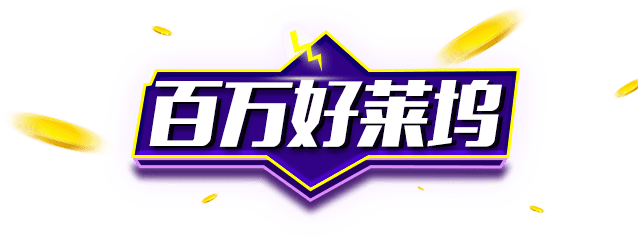
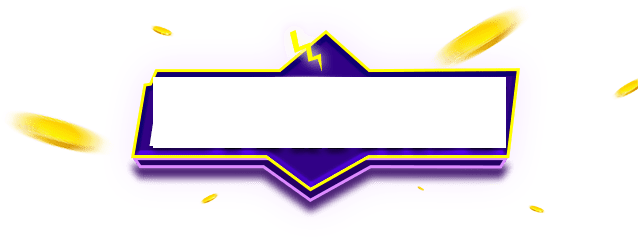
no message

Changed region(s): [[0.2382, 0.3195, 0.8041, 0.639]]

diff --git a/src/pages/Intro/index.js b/src/pages/Intro/index.js
@@ -3,9 +3,9 @@ import {observer} from 'mobx-preact';
 import style from './style.scss';
 
 import rule1 from './img/rule1.png';
-import rule2 from './img/rule2.png';
-import rule3 from './img/rule3.png';
-import rule4 from './img/rule4.png';
+// import rule2 from './img/rule2.png';
+// import rule3 from './img/rule3.png';
+// import rule4 from './img/rule4.png';
 import faq from './img/faq.png';
 
 @observer
@@ -20,32 +20,11 @@ export default class Intro extends Component {
 					<div class={`over-hidden ${style.rule_item}`}>
 						<img class={`fl-lf ${style.rule_img}`} src={rule1}/>
 						<div class={`fl-ri ${style.rule_box}`}>
-							<div class={`text16 break-word fs16 ${style.rule_title}`}>回答问题，要准要快</div>
-							<div class={`fc4 break-word ${style.item_text}`} dangerouslySetInnerHTML={{__html: '点选你认为正确的答案，你必须在10s内审题和作答，选完不可修改。'}}></div>
+							<div class={`text16 break-word fs16 ${style.rule_title}`}>some text</div>
+							<div class={`fc4 break-word ${style.item_text}`} dangerouslySetInnerHTML={{__html: 'some text'}}></div>
 						</div>
 					</div>
 
-					<div class={`over-hidden ${style.rule_item}`}>
-						<img class={`fl-lf ${style.rule_img}`} src={rule2}/>
-						<div class={`fl-ri ${style.rule_box}`}>
-							<div class={`text16 break-word fs16 ${style.rule_title}`}>超时或答错，就会出局</div>
-							<div class={`fc4 break-word ${style.item_text}`} dangerouslySetInnerHTML={{__html: '如果你点选了错误答案，或超时未作答，将被淘汰出局，将无法获得当期的奖金。'}}></div>
-						</div>
-					</div>
-					<div class={`over-hidden ${style.rule_item}`}>
-						<img class={`fl-lf ${style.rule_img}`} src={rule3}/>
-						<div class={`fl-ri ${style.rule_box}`}>
-							<div class={`text16 break-word fs16 ${style.rule_title}`}>答对，即冲顶成功</div>
-							<div class={`fc4 break-word ${style.item_text}`} dangerouslySetInnerHTML={{__html: '答对1道题目，你将最高获得100元的现金奖励。'}}></div>
-						</div>
-					</div>
-					<div class={`over-hidden ${style.rule_item}`}>
-						<img class={`fl-lf ${style.rule_img}`} src={rule4}/>
-						<div class={`fl-ri ${style.rule_box}`}>
-							<div class={`text16 break-word fs16 ${style.rule_title}`}>提现到支付宝</div>
-							<div class={`fc4 break-word ${style.item_text}`} dangerouslySetInnerHTML={{__html: '1个支付宝只能为1个账号提现，支付宝账号第1次为该账号成功提现，则自动绑定该账号。'}}></div>
-						</div>
-					</div>
 				</div>
 				<div class={style.intro_pad}>
 					<div class={`fs18 text-center ${style.intro_title2}`}>
@@ -56,50 +35,15 @@ export default class Intro extends Component {
 					<div class={`over-hidden ${style.faq_item}`}>
 						<img class={`fl-lf ${style.faq_img}`} src={faq}/>
 						<div class={`fl-ri ${style.faq_box}`}>
-							<div class={`fs16 break-word ${style.faq_title}`}>什么是《百万好莱坞》？</div>
-							<div class={`fc4 break-word ${style.item_text}`} dangerouslySetInnerHTML={{__html: '百万好莱坞是一款益智类公平竞答游戏，你只需通过参与互动答题，挑战成功就可以赢走奖金。'}}></div>
+							<div class={`fs16 break-word ${style.faq_title}`}>什么是xxx？</div>
+							<div class={`fc4 break-word ${style.item_text}`} dangerouslySetInnerHTML={{__html: 'xxx。'}}></div>
 						</div>
 					</div>
 					<div class={`over-hidden ${style.faq_item}`}>
 						<img class={`fl-lf ${style.faq_img}`} src={faq}/>
 						<div class={`fl-ri ${style.faq_box}`}>
 							<div class={`fs16 break-word ${style.faq_title}`}>用户每天有几次答题机会？</div>
-							<div class={`fc4 break-word ${style.item_text}`} dangerouslySetInnerHTML={{__html: '每个人在小程序端有1次参与机会，在喵看app客户端有2次机会。'}}></div>
-						</div>
-					</div>
-					<div class={`over-hidden ${style.faq_item}`}>
-						<img class={`fl-lf ${style.faq_img}`} src={faq}/>
-						<div class={`fl-ri ${style.faq_box}`}>
-							<div class={`fs16 break-word ${style.faq_title}`}>奖金是真的钱吗？</div>
-							<div class={`fc4 break-word ${style.item_text}`} dangerouslySetInnerHTML={{__html: '《百万好莱坞》提供的奖金是真实的人民币，且用户获得奖金后“提现”到支付宝，不会扣取手续费。'}}></div>
-						</div>
-					</div>
-					<div class={`over-hidden ${style.faq_item}`}>
-						<img class={`fl-lf ${style.faq_img}`} src={faq}/>
-						<div class={`fl-ri ${style.faq_box}`}>
-							<div class={`fs16 break-word ${style.faq_title}`}>Apple是《百万好莱坞》赞助商吗？</div>
-							<div class={`fc4 break-word ${style.item_text}`} dangerouslySetInnerHTML={{__html: '本APP的所有活动，与设备生产商Apple无关。Apple不是《百万好莱坞》的赞助商。'}}></div>
-						</div>
-					</div>
-					<div class={`over-hidden ${style.faq_item}`}>
-						<img class={`fl-lf ${style.faq_img}`} src={faq}/>
-						<div class={`fl-ri ${style.faq_box}`}>
-							<div class={`fs16 break-word ${style.faq_title}`}>复活卡的使用规则是怎样的？</div>
-							<div class={`fc4 break-word ${style.item_text}`} dangerouslySetInnerHTML={{__html: '你可以通过邀请好友参与答题来获取额外生命。<br>如果你回答错误，我们将消耗一个额外生命值，为你自动复活，每轮只能复活一次。'}}></div>
-						</div>
-					</div>
-					<div class={`over-hidden ${style.faq_item}`}>
-						<img class={`fl-lf ${style.faq_img}`} src={faq}/>
-						<div class={`fl-ri ${style.faq_box}`}>
-							<div class={`fs16 break-word ${style.faq_title}`}>如果题目正确答案出现有误，处理原则是怎么样的？</div>
-							<div class={`fc4 break-word ${style.item_text}`} dangerouslySetInnerHTML={{__html: '我们对影响的用户表示遗憾，不过我们不会对用户进行经济补偿，因为用户自身财产并没有损失。我们希望用户能将重点聚焦在知识本身，而不是奖金。'}}></div>
-						</div>
-					</div>
-					<div class={`over-hidden ${style.faq_item}`}>
-						<img class={`fl-lf ${style.faq_img}`} src={faq}/>
-						<div class={`fl-ri ${style.faq_box}`}>
-							<div class={`fs16 break-word ${style.faq_title}`}>提现需多久才能到账？</div>
-							<div class={`fc4 break-word ${style.item_text}`} dangerouslySetInnerHTML={{__html: '通常情况下，在你提交申请后的7个工作日到账，双休日、法定节假日顺延处理。有违竞答题公平原则的提现会触发账号封锁。'}}></div>
+							<div class={`fc4 break-word ${style.item_text}`} dangerouslySetInnerHTML={{__html: 'xx。'}}></div>
 						</div>
 					</div>
 				</div>

diff --git a/src/pages/Wallet/index.js b/src/pages/Wallet/index.js
@@ -42,7 +42,7 @@ export default class Wallet extends Component {
 
 				<div class={`text-center ${style.app_qr_wrap}`}>
 					<img class={`${style.app_qr_img}`} src={appQR}/>
-					<div class={`${style.app_qr_tip}`}>扫描二维码或在各大应用商店下载喵看<br/>在答题活动页面提现</div>
+					<div class={`${style.app_qr_tip}`}>扫描二维码或在各大应用商店下载XXapp<br/>在答题活动页面提现</div>
 				</div>
 			</div>
 		);

diff --git a/src/index.html b/src/index.html
@@ -7,7 +7,7 @@
     <meta name="format-detection" content="telephone=no"/>
     <meta name="renderer" content="webkit">
     <meta http-equiv="X-UA-Compatible" content="IE=edge">
-    <title>百万好莱坞</title>
+    <title>短视频答题H5</title>
 </head>
 <body>
 </body>
